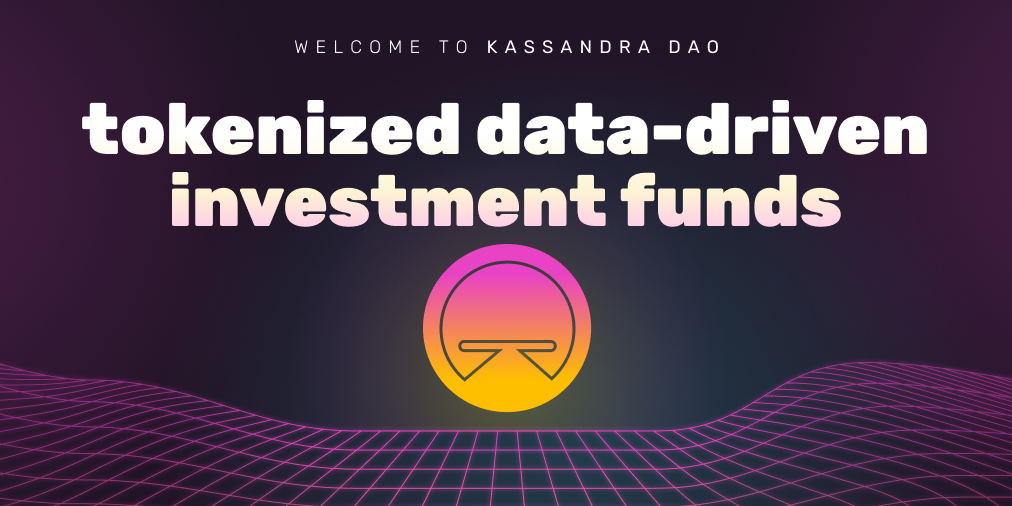
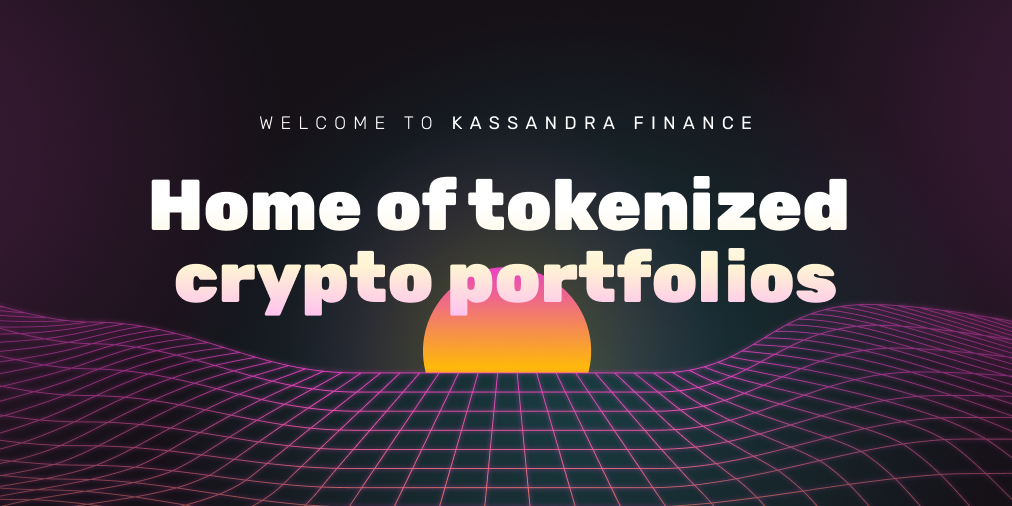
refactor: change content of meta tags on pages

Changed region(s): [[0.0, 0.1779, 1.0, 1.0], [0.4289, 0.0593, 0.7045, 0.1186], [0.2757, 0.0593, 0.3982, 0.1186]]

diff --git a/src/pages/index.tsx b/src/pages/index.tsx
@@ -18,19 +18,25 @@ export default function Index({ poolsKassandra }: IIndexProps) {
       <Head>
         {/* Primary Meta Tags */}
         <title>Kassandra</title>
-        <meta name="title" content="Kassandra - Decentralized Funds" />
+        <meta
+          name="title"
+          content="Kassandra DAO - Tokenized crypto portfolios"
+        />
         <meta
           name="description"
-          content="Create, Manage and invest in tokenized crypto portfolios effortlessly."
+          content="Find a strategy that suits your investment needs."
         />
 
         {/* Open Graph / Facebook */}
         <meta property="og:type" content="website" />
         <meta property="og:url" content="https://dev.kassandra.finance/" />
-        <meta property="og:title" content="Kassandra - Decentralized Funds" />
+        <meta
+          property="og:title"
+          content="Kassandra DAO - Tokenized crypto portfolios"
+        />
         <meta
           property="og:description"
-          content="Create, Manage and invest in tokenized crypto portfolios effortlessly."
+          content="Find a strategy that suits your investment needs."
         />
         <meta
           property="og:image"
@@ -42,11 +48,11 @@ export default function Index({ poolsKassandra }: IIndexProps) {
         <meta property="twitter:url" content="https://dev.kassandra.finance/" />
         <meta
           property="twitter:title"
-          content="Kassandra - Decentralized Funds"
+          content="Kassandra DAO - Tokenized crypto portfolios"
         />
         <meta
           property="twitter:description"
-          content="Create, Manage and invest in tokenized crypto portfolios effortlessly."
+          content="Find a strategy that suits your investment needs."
         />
         <meta
           property="twitter:image"

diff --git a/src/pages/gov/index.tsx b/src/pages/gov/index.tsx
@@ -12,13 +12,17 @@ export default function Index() {
       }}
     >
       <Head>
+        <meta property="og:image:width" content="1012" />
+        <meta property="og:image:height" content="506" />
+        <meta property="og:url" content="https://kassandra.finance/" />
         <meta
           property="og:image"
           content="https://kassandra.finance/kacy-og.png"
         />
-        <meta property="og:image:width" content="1012" />
-        <meta property="og:image:height" content="506" />
-        <meta property="og:url" content="https://kassandra.finance/" />
+        <meta
+          name="description"
+          content="Create proposals, vote and help the Kassandra community flourish."
+        />
       </Head>
       <Gov />
     </SWRConfig>

diff --git a/src/pages/manage/index.tsx b/src/pages/manage/index.tsx
@@ -6,13 +6,17 @@ export default function Index() {
   return (
     <>
       <Head>
+        <meta property="og:image:width" content="1012" />
+        <meta property="og:image:height" content="506" />
+        <meta property="og:url" content="https://kassandra.finance/" />
         <meta
           property="og:image"
           content="https://kassandra.finance/kacy-og.png"
         />
-        <meta property="og:image:width" content="1012" />
-        <meta property="og:image:height" content="506" />
-        <meta property="og:url" content="https://kassandra.finance/" />
+        <meta
+          name="description"
+          content="Bring your strategy, create and manage tokenized crypto portfolios with ease."
+        />
       </Head>
 
       <Manage />

diff --git a/src/pages/gov/proposals/index.tsx b/src/pages/gov/proposals/index.tsx
@@ -6,13 +6,17 @@ export default function Index() {
   return (
     <>
       <Head>
+        <meta property="og:image:width" content="1012" />
+        <meta property="og:image:height" content="506" />
+        <meta property="og:url" content="https://kassandra.finance/" />
         <meta
           property="og:image"
           content="https://kassandra.finance/kacy-og.png"
         />
-        <meta property="og:image:width" content="1012" />
-        <meta property="og:image:height" content="506" />
-        <meta property="og:url" content="https://kassandra.finance/" />
+        <meta
+          name="description"
+          content="Create proposals, vote and help the Kassandra community flourish."
+        />
       </Head>
       <Proposals />
     </>

diff --git a/src/pages/farm.tsx b/src/pages/farm.tsx
@@ -5,13 +5,17 @@ export default function Index() {
   return (
     <>
       <Head>
+        <meta property="og:image:width" content="1012" />
+        <meta property="og:image:height" content="506" />
+        <meta property="og:url" content="https://kassandra.finance/" />
         <meta
           property="og:image"
           content="https://kassandra.finance/kacy-og.png"
         />
-        <meta property="og:image:width" content="1012" />
-        <meta property="og:image:height" content="506" />
-        <meta property="og:url" content="https://kassandra.finance/" />
+        <meta
+          name="description"
+          content="Earn rewards and voting power by staking kacy and other assets"
+        />
       </Head>
       <StakeFarm />
     </>
